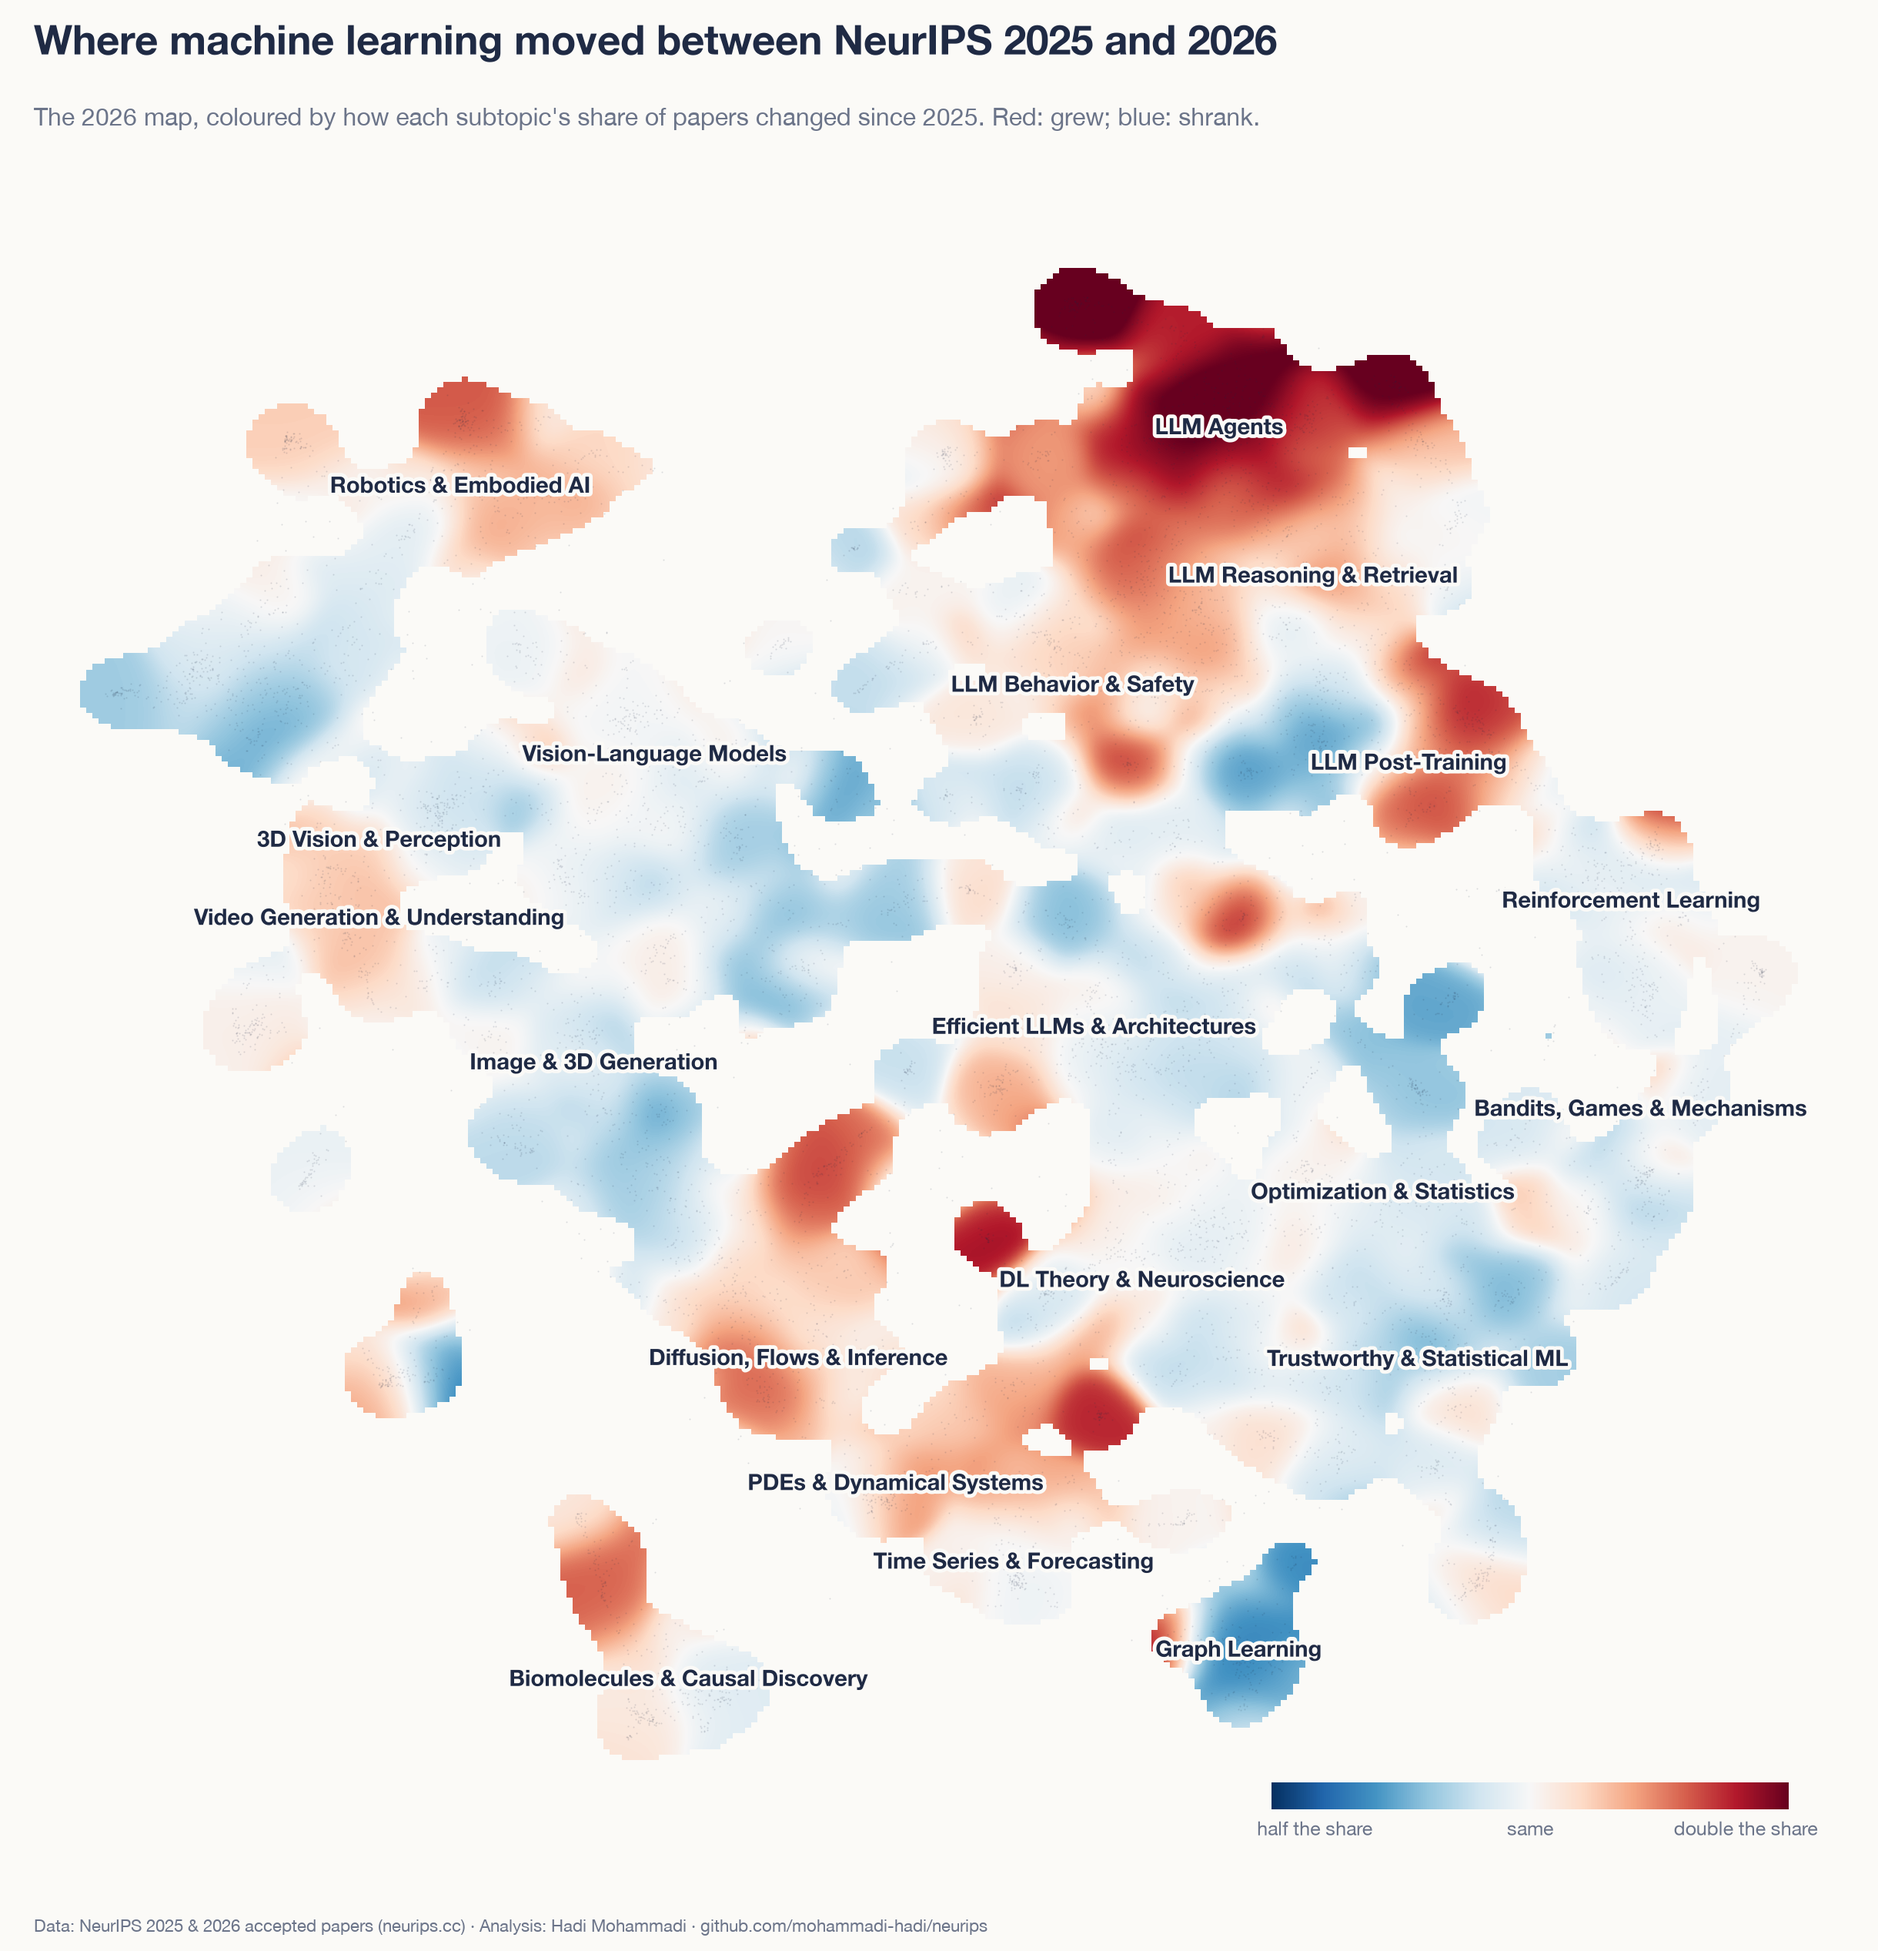
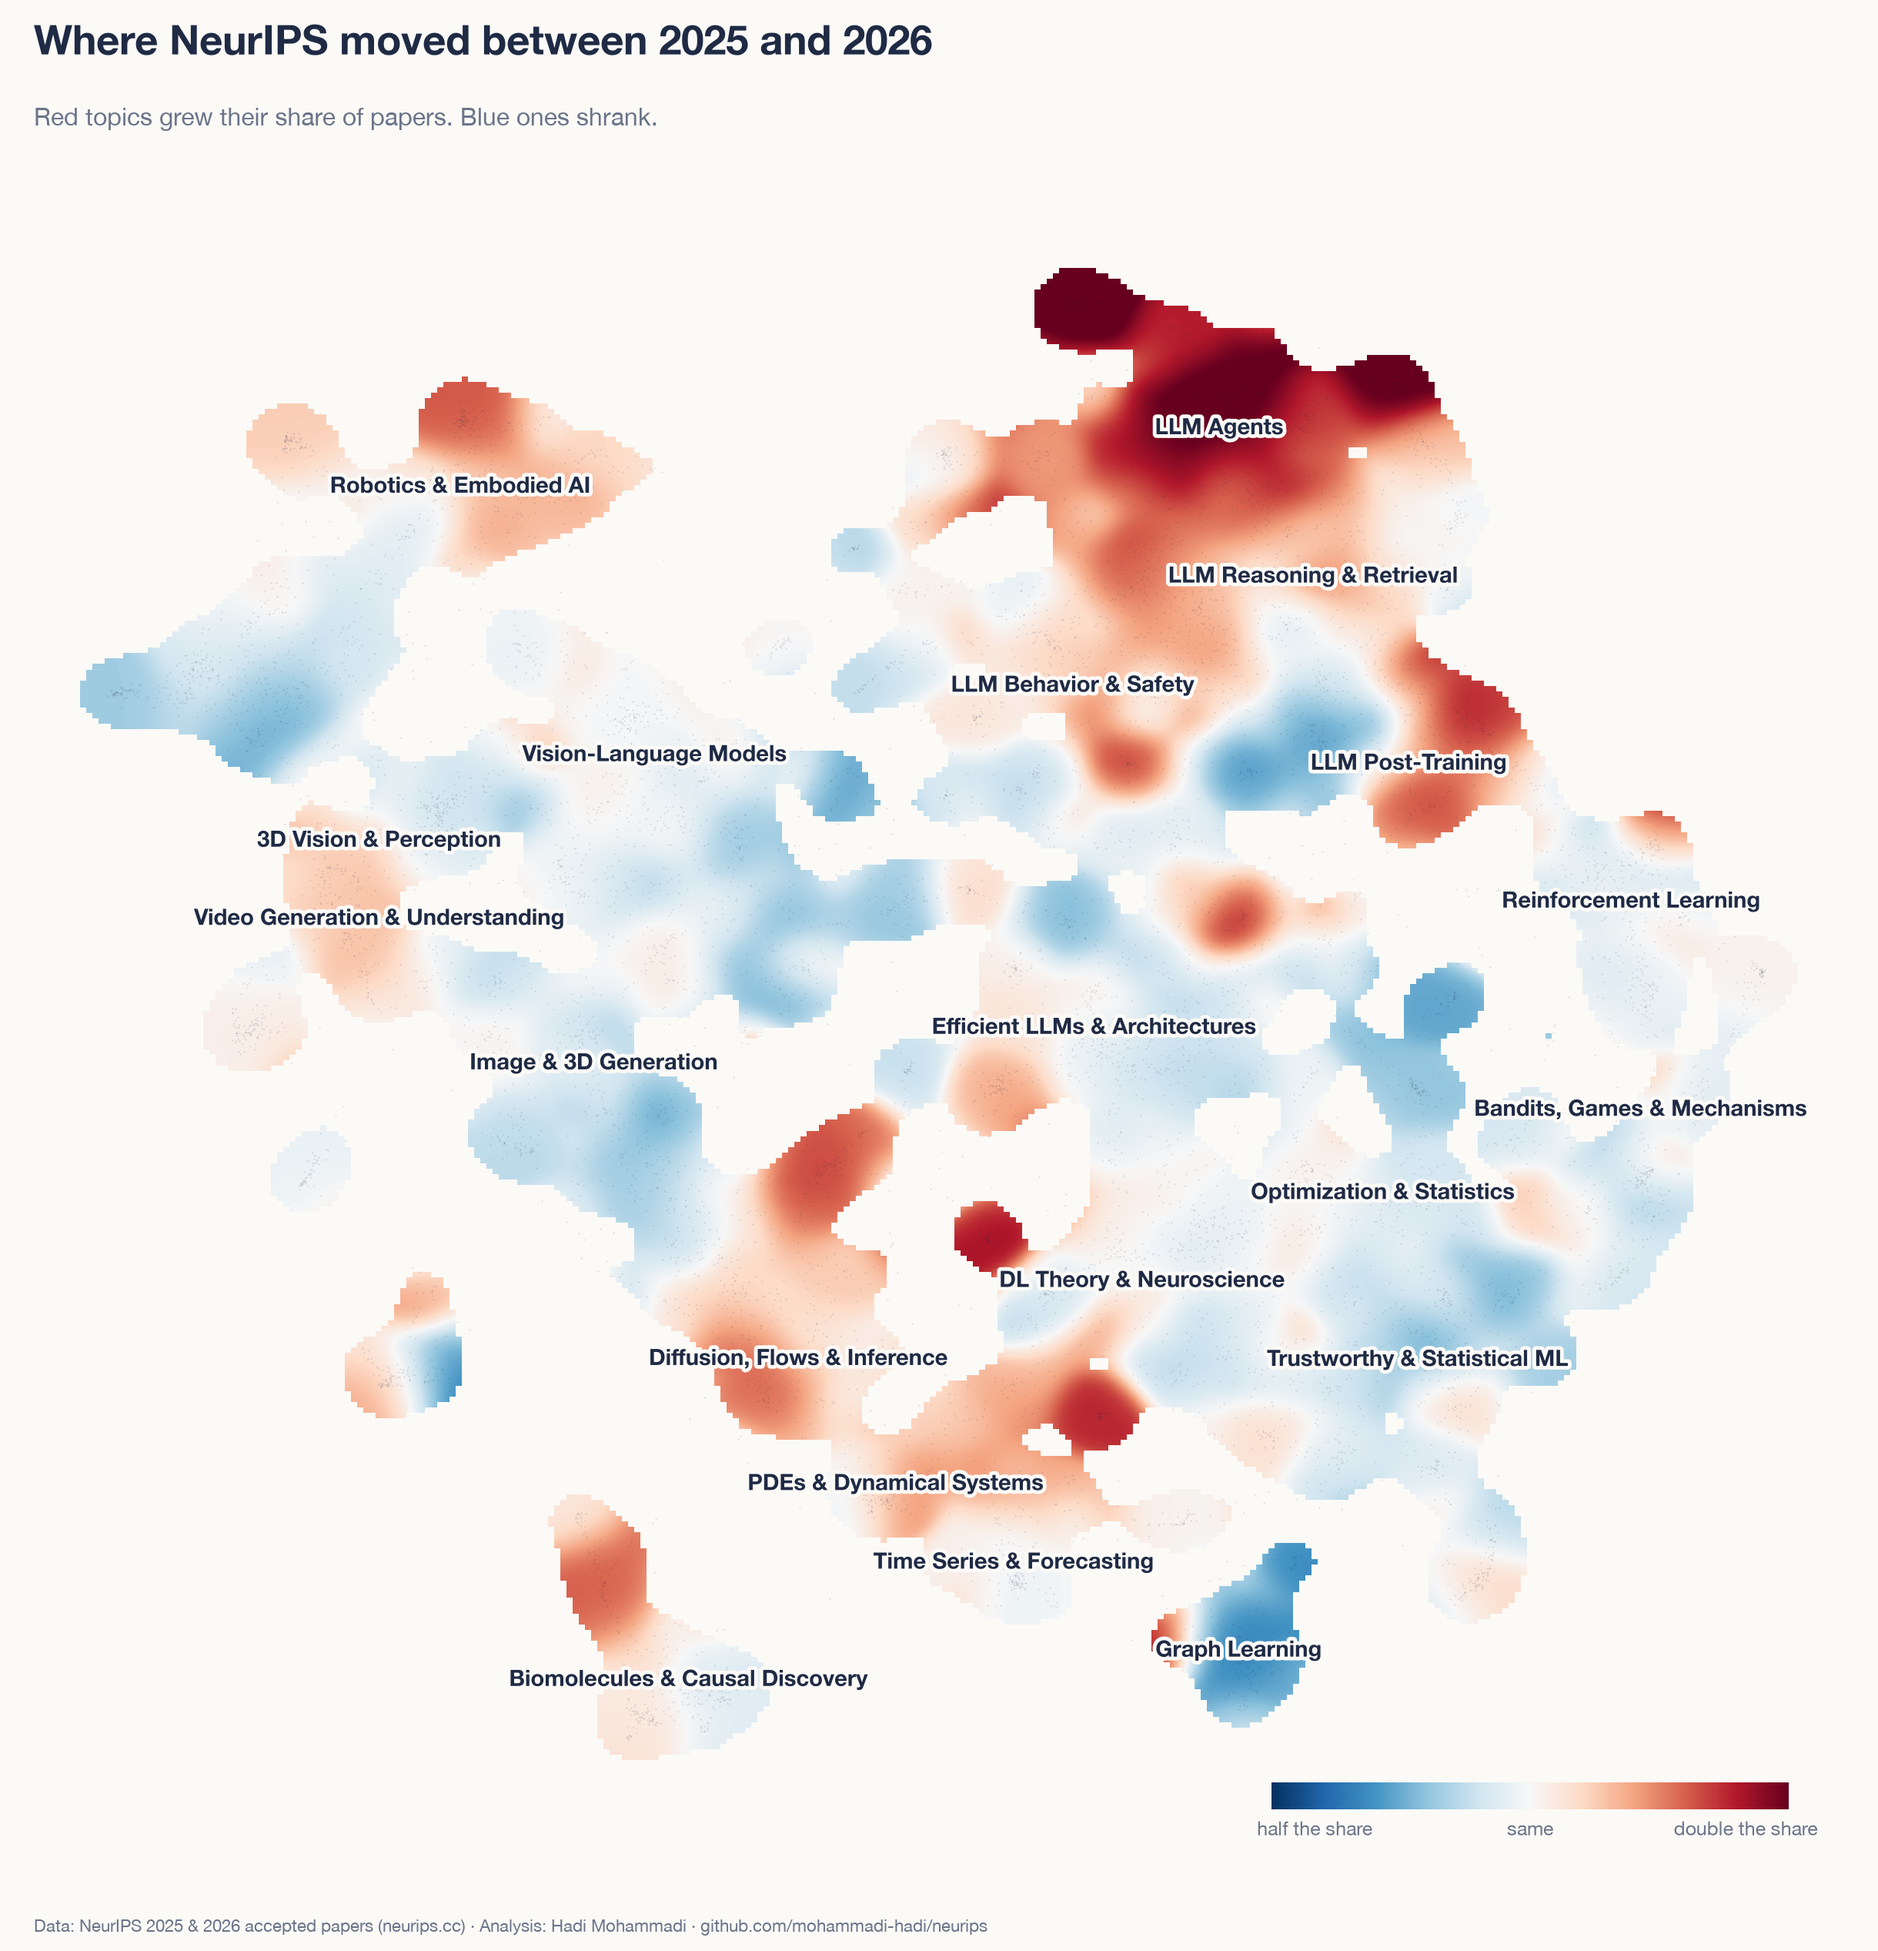
Use simpler titles and notes on the charts and pages

Changed region(s): [[0.0934, 0.0, 0.6852, 0.0312], [0.0311, 0.0312, 0.0623, 0.0624]]

diff --git a/src/10_story_figures.py b/src/10_story_figures.py
@@ -117,8 +117,8 @@ def field_colorbar(fig, box, fs=9):
 fig = plt.figure(figsize=(12, 12.6))
 draw_field(fig.add_axes([0.0, 0.03, 1.0, 0.9]))
 field_colorbar(fig, [0.68, 0.07, 0.28, 0.014])
-frame(fig, "Where machine learning moved between NeurIPS 2025 and 2026",
-      "The 2026 map, coloured by how each subtopic's share of papers changed since 2025. Red: grew; blue: shrank.")
+frame(fig, "Where NeurIPS moved between 2025 and 2026",
+      "Red topics grew their share of papers. Blue ones shrank.")
 fig.savefig(FIG / "field_moved.png"); plt.close(fig)
 
 # ================= 2. the agent family =================
@@ -128,7 +128,7 @@ c26 = np.array([(d26.fine == f).sum() for f in fam]); c25 = np.array([(d25.fine 
 n25, n26 = int((d25.broad == agent_b).sum()), int((d26.broad == agent_b).sum())
 all_faster = bool((c26 / np.maximum(c25, 1)).min() > growth_conf)
 agent_title = (f"Agent papers went from {n25} to {n26}"
-               + ("; every agent subtopic grew faster than the conference" if all_faster else ""))
+               + (". Every agent topic grew faster than the conference." if all_faster else ""))
 
 
 def draw_agents(ax, fs=10.5, lab_fs=9.5):
@@ -150,8 +150,8 @@ def draw_agents(ax, fs=10.5, lab_fs=9.5):
 fig, ax = plt.subplots(figsize=(11, 7))
 fig.subplots_adjust(top=0.86, bottom=0.14, left=0.36, right=0.95)
 draw_agents(ax)
-frame(fig, agent_title, f"Papers per subtopic in the LLM Agents area. The whole conference grew "
-      f"{growth_conf:.2f}x; the agent area grew {n26 / n25:.1f}x.")
+frame(fig, agent_title, f"Number of papers per agent topic. The whole conference grew {growth_conf:.1f}x. "
+      f"Agent papers grew {n26 / n25:.1f}x.")
 fig.savefig(FIG / "agents_family.png"); plt.close(fig)
 
 # ================= 3. slope chart of areas =================
@@ -195,8 +195,8 @@ ax.set_xlim(-0.95, 1.95); ax.axis("off")
 top_y = max(yl.max(), yr.max()) + 0.45
 ax.text(0, top_y, "2025", ha="center", fontsize=12, fontweight="bold", color=INK)
 ax.text(1, top_y, "2026", ha="center", fontsize=12, fontweight="bold", color=INK)
-frame(fig, "LLM agents doubled their share; 3D vision, trustworthy ML and graph learning gave ground",
-      "Share of accepted papers per research area. Orange: up by more than 0.5 points; blue: down by more than 0.5.")
+frame(fig, "LLM agents doubled their share. 3D vision and graph learning shrank.",
+      "Share of all papers per area. Orange: up more than half a point. Blue: down more than half a point. Grey: smaller change.")
 fig.savefig(FIG / "areas_slope.png"); plt.close(fig)
 
 # ================= 4. subtopics that gained and lost the most share =================
@@ -221,9 +221,9 @@ for ax, t, col, ttl in [(a1, up.iloc[::-1], ACC, "Gained most share"), (a2, dn.i
     ax.set_xlabel("% of accepted papers")
     grid_x(ax)
 a1.legend(frameon=False, loc="lower right", fontsize=9)
-frame(fig, "Agent benchmarks, reliability and memory gained the most ground",
-      "Subtopics with the largest change in share of papers (grey 2025 → coloured 2026; label = share ratio). "
-      "Subtopics are defined on 2026 papers; each 2025 paper is assigned to its nearest one.")
+frame(fig, "Agent topics gained the most ground",
+      "Grey dot: 2025. Coloured dot: 2026. The label shows how many times bigger or smaller the share got "
+      "(paper counts for topics that were tiny in 2025).")
 fig.savefig(FIG / "movers_x.png"); plt.close(fig)
 
 # ================= 5. cities =================
@@ -241,12 +241,12 @@ for c in ["Sydney", "Atlanta", "Paris"]:
     ax.scatter(lean[c], yy, s=70, color=CITY[c], label=f"{c} (overall {avg[c]:.0f}%)", zorder=3,
                edgecolor=BG, linewidths=0.9)
 ax.set_yticks(yy, lean.index)
-ax.set_xlabel("percentage points above or below the city's overall share")
+ax.set_xlabel("points above or below the overall share")
 ax.legend(frameon=False, loc="lower center", bbox_to_anchor=(0.4, 1.0), ncol=3, fontsize=10)
 grid_x(ax)
-frame(fig, "Vision and robotics are mostly in Sydney; theory leans to Paris",
-      "Bandits and trustworthy ML lean to both Paris and Atlanta. Deviation from the overall split of "
-      f"{avg['Sydney']:.0f}% Sydney, {avg['Atlanta']:.0f}% Atlanta, {avg['Paris']:.0f}% Paris.")
+frame(fig, "Vision and robotics went to Sydney. Theory leans to Paris.",
+      f"How far each area is from the overall split: {avg['Sydney']:.0f}% Sydney, "
+      f"{avg['Atlanta']:.0f}% Atlanta, {avg['Paris']:.0f}% Paris.")
 fig.savefig(FIG / "cities_lean.png"); plt.close(fig)
 
 # ================= 6. vocabulary, orals, organisations, countries =================
@@ -255,12 +255,12 @@ fig, ax = plt.subplots(figsize=(10, 9.5))
 fig.subplots_adjust(top=0.87, bottom=0.1, left=0.36, right=0.95)
 ax.barh(v.term, v.delta_pp, color=[ACC if x > 0 else COOL for x in v.delta_pp], height=0.65)
 for i, (p26, dlt) in enumerate(zip(v.pct_2026, v.delta_pp)):
-    ax.text(dlt + 0.15 if dlt >= 0 else 0.15, i, f"{p26:.0f}% of papers", va="center", fontsize=8.5, color=MUTED)
+    ax.text(dlt + 0.15 if dlt >= 0 else 0.15, i, f"{p26:.0f}%", va="center", fontsize=8.5, color=MUTED)
 ax.axvline(0, color="#9aa3b5", lw=1)
-ax.set_xlabel("change since 2025 (percentage points of papers whose title or abstract mentions the term)")
+ax.set_xlabel("change since 2025, in points")
 grid_x(ax)
-frame(fig, "Abstracts talk more about benchmarks and agents, and much less about efficiency",
-      "Share of papers whose title or abstract mentions each term, change 2025 → 2026 (label: 2026 share).")
+frame(fig, "More papers talk about benchmarks and agents. Fewer say 'efficient'.",
+      "Change since 2025 in the share of papers that use each term. The label is the 2026 share.")
 fig.savefig(FIG / "vocabulary_trends.png"); plt.close(fig)
 
 r = pd.DataFrame(S["highlight_rate_by_area"]).sort_values("rate_pct")
@@ -278,8 +278,7 @@ ax.set_xlabel("% of the area's papers selected as oral or spotlight")
 grid_x(ax)
 leader = r.iloc[-1]
 frame(fig, f"{leader.broad_name} papers get the most orals and spotlights",
-      "Share of each area's papers (with a published decision) selected as oral or spotlight. "
-      "Coloured only where the gap to the average is larger than chance would explain.")
+      "Share of each area's papers with a decision that became an oral or spotlight. Grey means the gap could be chance.")
 fig.savefig(FIG / "highlight_rate_by_area.png"); plt.close(fig)
 
 top = S["institutions_2026"][:20][::-1]
@@ -290,8 +289,8 @@ for i, t in enumerate(top):
     ax.text(t[1] + 4, i, str(t[1]), va="center", fontsize=9, color=MUTED)
 ax.set_xlabel("papers with at least one author from the organisation")
 grid_x(ax)
-frame(fig, f"{top[-1][0]} leads, with {top[-1][1]} papers",
-      "The 20 organisations on the most NeurIPS 2026 papers. Spellings are merged; counts are lower bounds.")
+frame(fig, f"{top[-1][0]} is on the most papers: {top[-1][1]}",
+      "The 20 organisations with the most NeurIPS 2026 papers.")
 fig.savefig(FIG / "top_institutions.png"); plt.close(fig)
 
 cc26 = {c: p_ for c, _, p_ in S["countries_2026"]}; cc25 = {c: p_ for c, _, p_ in S["countries_2025"]}
@@ -306,8 +305,8 @@ ax.set_yticks(yy, cs)
 ax.set_xlabel("% of papers (with a mapped affiliation) that have an author from the country")
 ax.legend(frameon=False, loc="lower right")
 grid_x(ax)
-frame(fig, f"USA {cc26['USA']:.0f}%, China {cc26['China']:.0f}%: China's share fell from {cc25['China']:.0f}%",
-      "Share of papers with at least one author affiliated in each country, 2025 → 2026.")
+frame(fig, f"The US is on {cc26['USA']:.0f}% of papers, China on {cc26['China']:.0f}%",
+      f"Share of papers with at least one author from each country. China was at {cc25['China']:.0f}% in 2025.")
 fig.savefig(FIG / "countries.png"); plt.close(fig)
 
 # ================= 7. social cards, 1080 x 1350, large type =================

diff --git a/src/08_appendix.py b/src/08_appendix.py
@@ -15,9 +15,9 @@ d26, d25 = df[df.year == 2026], df[df.year == 2025]
 n26, n25 = d26.fine.value_counts(), d25.fine.value_counts()
 b26, b25 = d26.broad.value_counts(), d25.broad.value_counts()
 
-lines = ["# Appendix: all research areas and subtopics", "",
-         f"NeurIPS 2026: {len(d26):,} papers in 20 areas and 150 subtopics. Shares are % of all papers of that year; "
-         f"2025 ({len(d25):,} papers) is mapped onto the 2026 subtopics. ★ = orals + spotlights in 2026.", "",
+lines = ["# All areas and topics", "",
+         f"All 20 areas and 150 topics of NeurIPS 2026 ({len(d26):,} papers). For each topic you see what the papers do, "
+         f"how many there are, and its share of all papers in 2025 and 2026. ★ is the number of orals and spotlights.", "",
          f"\\* {OPENREVIEW_NOTE}", ""]
 for b in sorted(broad, key=lambda b: -b26.get(b, 0)):
     s26, s25 = 100 * b26.get(b, 0) / len(d26), 100 * b25.get(b, 0) / len(d25)

diff --git a/src/common.py b/src/common.py
@@ -36,8 +36,8 @@ def openreview_pdf(forum):
     return forum.replace("/forum?id=", "/pdf?id=") if forum else ""
 
 
-OPENREVIEW_NOTE = ("NeurIPS 2026 papers are not yet public on OpenReview (checked 20 October 2026); "
-                   "the OpenReview and PDF links are the official ones and work once the papers are released.")
+OPENREVIEW_NOTE = ("NeurIPS has not made the 2026 papers public on OpenReview yet (checked 20 October 2026). "
+                   "Those links will work once they do.")
 
 
 def arxiv_search(title):

diff --git a/report/APPENDIX.md b/report/APPENDIX.md
@@ -1,8 +1,8 @@
-# Appendix: all research areas and subtopics
+# All areas and topics
 
-NeurIPS 2026: 9,110 papers in 20 areas and 150 subtopics. Shares are % of all papers of that year; 2025 (5,859 papers) is mapped onto the 2026 subtopics. ★ = orals + spotlights in 2026.
+All 20 areas and 150 topics of NeurIPS 2026 (9,110 papers). For each topic you see what the papers do, how many there are, and its share of all papers in 2025 and 2026. ★ is the number of orals and spotlights.
 
-\* NeurIPS 2026 papers are not yet public on OpenReview (checked 20 October 2026); the OpenReview and PDF links are the official ones and work once the papers are released.
+\* NeurIPS has not made the 2026 papers public on OpenReview yet (checked 20 October 2026). Those links will work once they do.
 
 ## LLM Behavior & Safety — 943 papers (10.4%, 2025: 9.1%)
 
